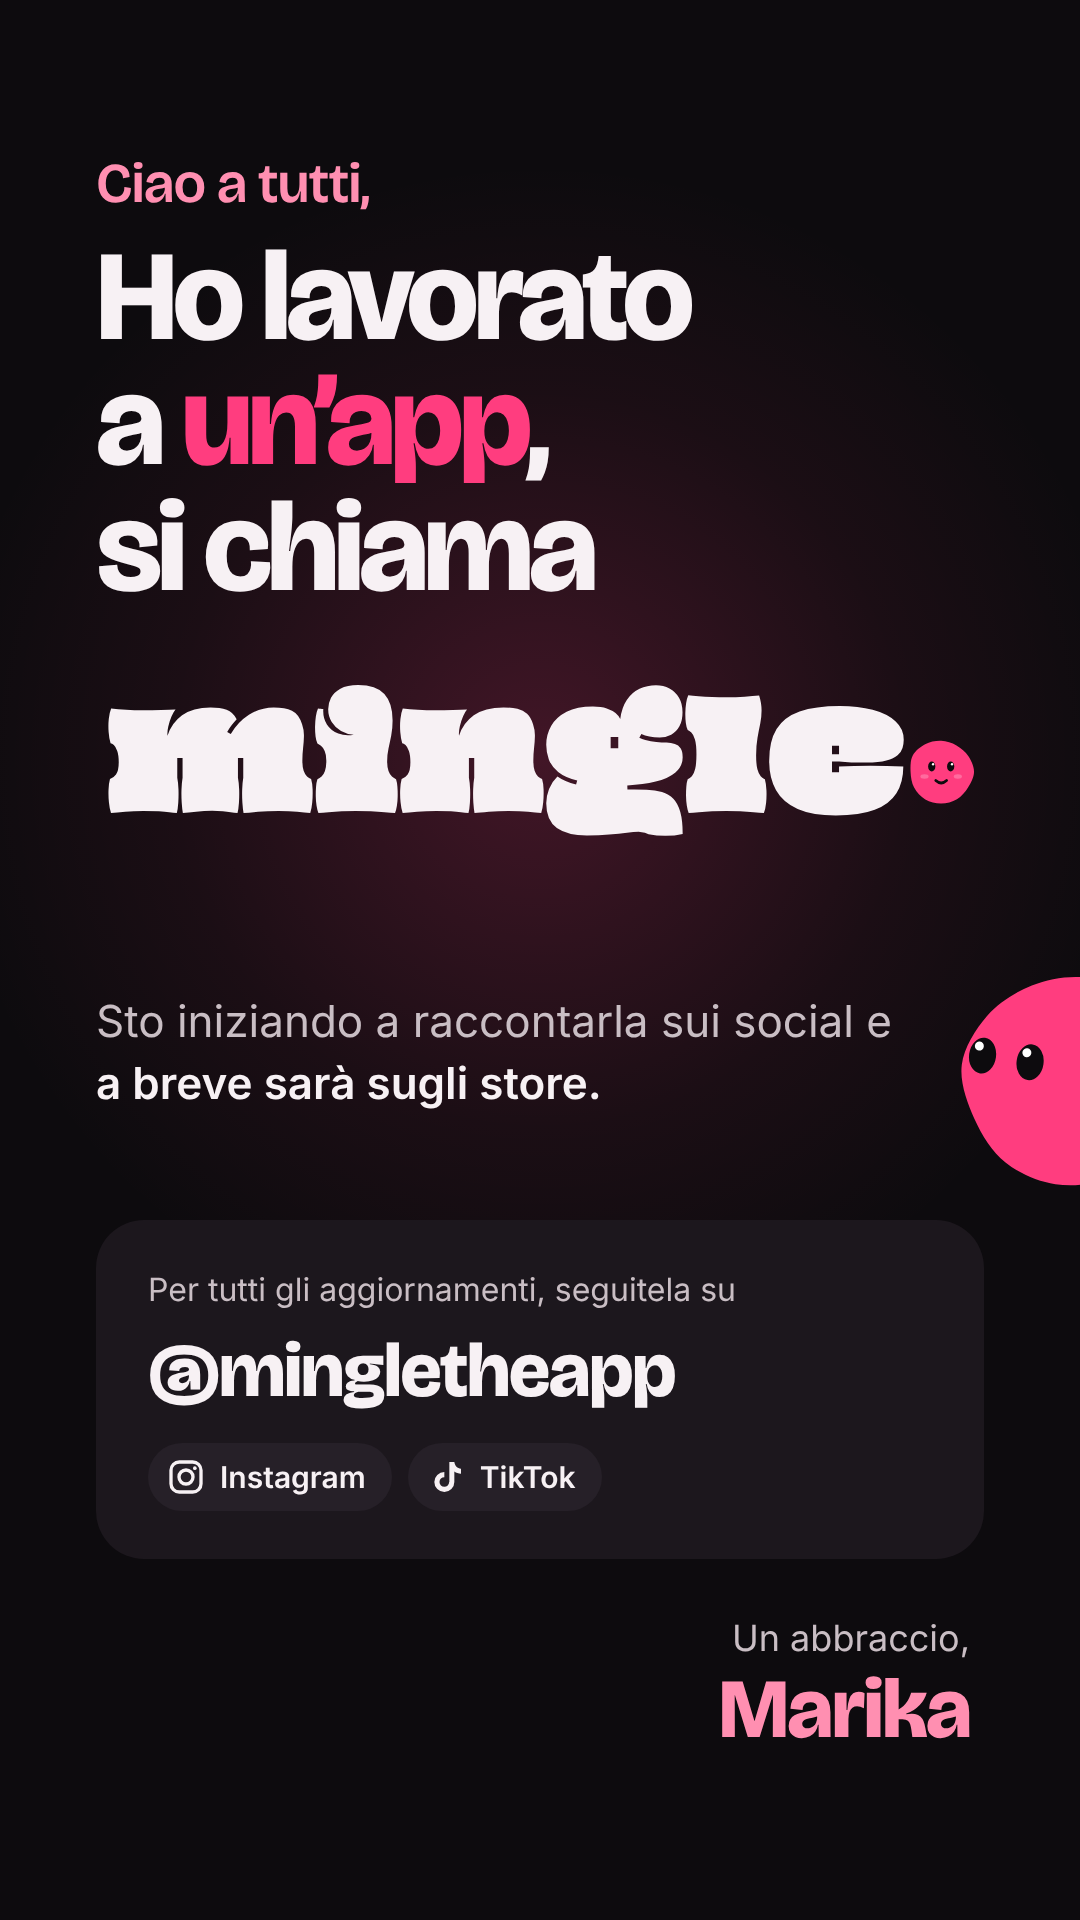
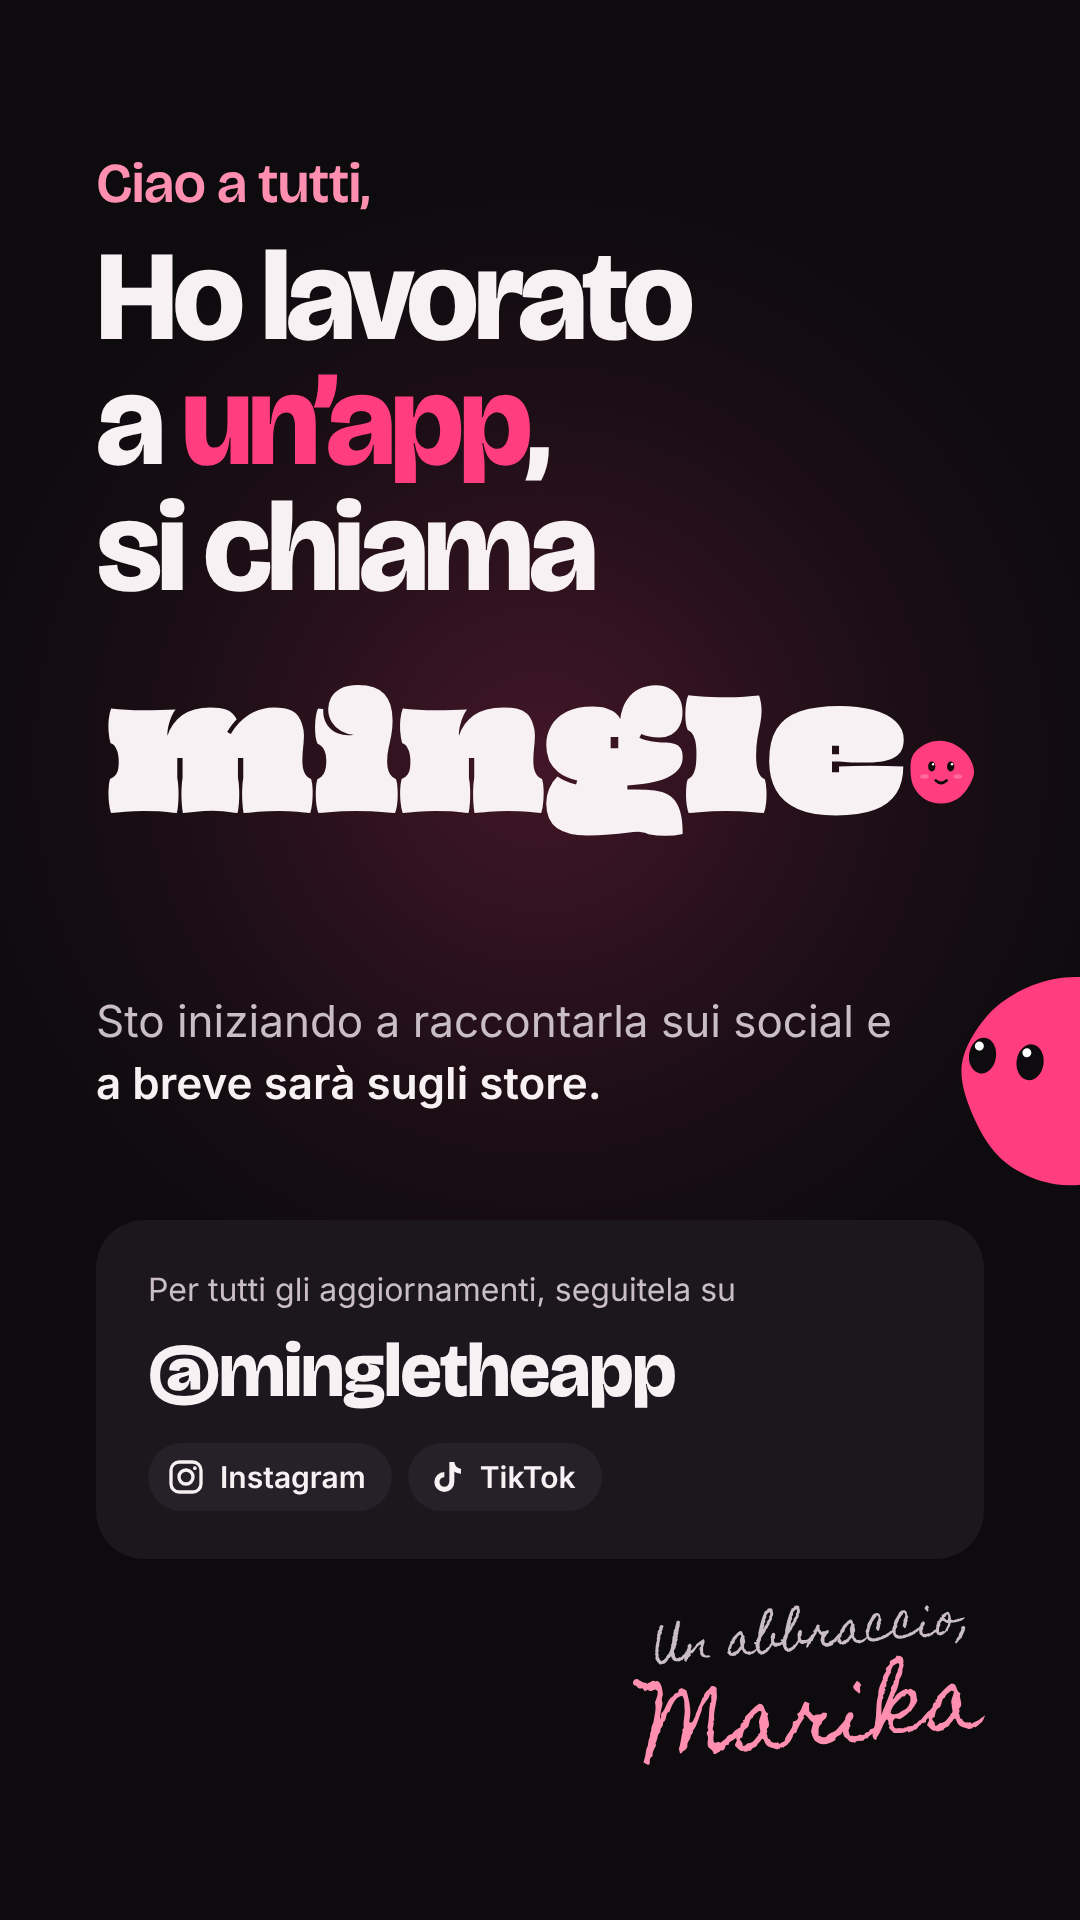
Stato WhatsApp: firma in Homemade Apple
Claude-Session: https://claude.ai/code/session_01XDMhier1WEJzKbpSLEJqDr

Changed region(s): [[0.5806, 0.8438, 0.9167, 0.9375]]

diff --git a/docs/social/stato-whatsapp.html b/docs/social/stato-whatsapp.html
@@ -1,6 +1,6 @@
 <!doctype html>
 <html><head><meta charset="utf-8">
-<link rel="stylesheet" href="https://fonts.googleapis.com/css2?family=Bricolage+Grotesque:opsz,wght@12..96,400..800&family=Inter:wght@400;500;600&family=DM+Mono:wght@400;500&display=swap">
+<link rel="stylesheet" href="https://fonts.googleapis.com/css2?family=Bricolage+Grotesque:opsz,wght@12..96,400..800&family=Inter:wght@400;500;600&family=DM+Mono:wght@400;500&family=Homemade+Apple&display=swap">
 <style>
 *{margin:0;padding:0;box-sizing:border-box}
 body{width:1080px;height:1920px;overflow:hidden;background:#0D0B0E;color:#F7F1F4;font-family:Inter,sans-serif;position:relative}
@@ -19,8 +19,8 @@ body{width:1080px;height:1920px;overflow:hidden;background:#0D0B0E;color:#F7F1F4
 .follow .handle{font-family:'Bricolage Grotesque';font-weight:800;font-size:76px;letter-spacing:-2px;margin-top:14px;color:#F7F1F4}
 .follow .apps{display:flex;gap:16px;margin-top:26px}
 .app{display:flex;align-items:center;gap:14px;background:#262028;border-radius:999px;padding:14px 26px 14px 18px;font-size:30px;font-weight:600}
-.sign{position:absolute;right:110px;top:1620px;text-align:right;font-family:'Bricolage Grotesque';font-weight:800;font-size:84px;letter-spacing:-2px;line-height:1;color:#FF8FB1}
-.sign small{display:block;font-family:Inter,sans-serif;font-weight:400;font-size:36px;letter-spacing:0;color:#C9BEC4;margin-bottom:12px}
+.sign{position:absolute;right:100px;top:1610px;text-align:right;font-family:'Homemade Apple',cursive;font-weight:400;font-size:84px;line-height:1.25;color:#FF8FB1;transform:rotate(-6deg)}
+.sign small{display:block;font-family:'Homemade Apple',cursive;font-size:44px;color:#C9BEC4;margin-bottom:6px}
 .peek{position:absolute;right:-140px;top:930px;width:300px;transform:scaleX(-1) rotate(-8deg)}
 </style></head><body>
 <div class="glow"></div>
